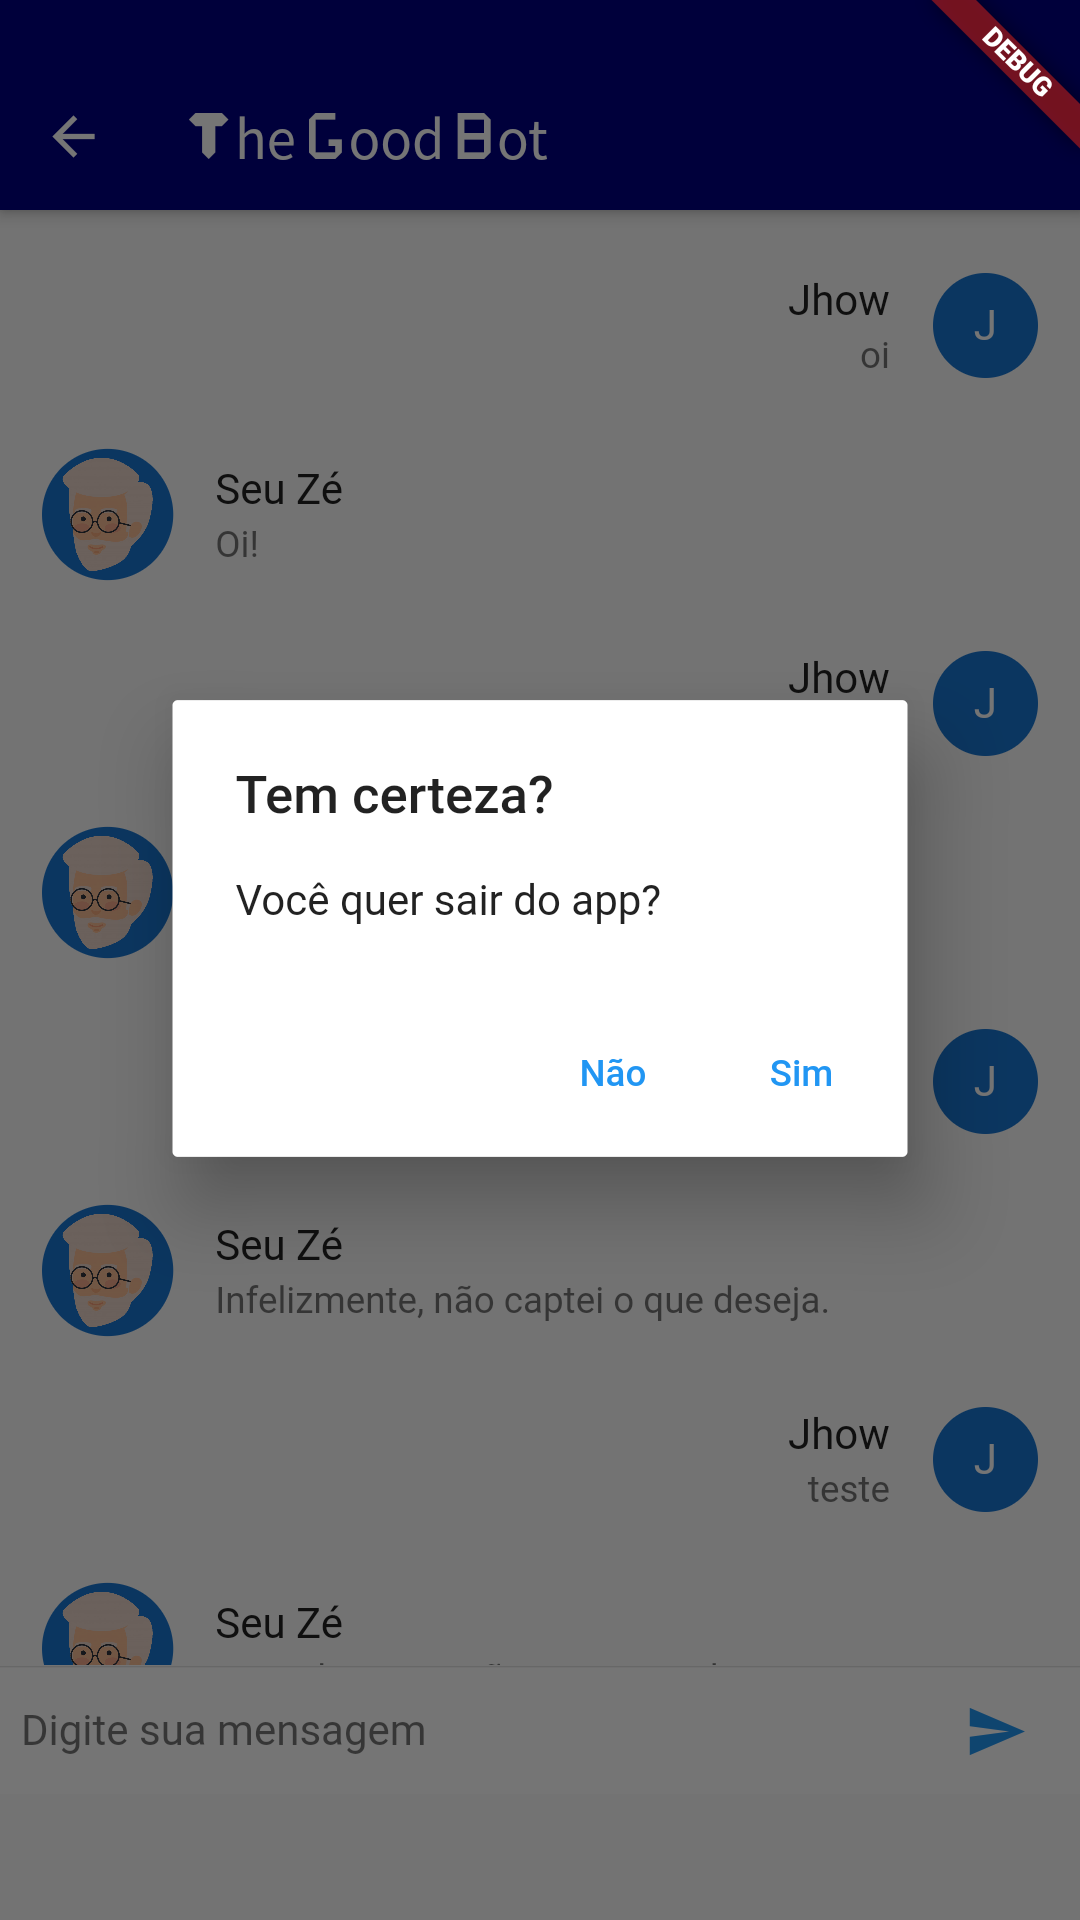
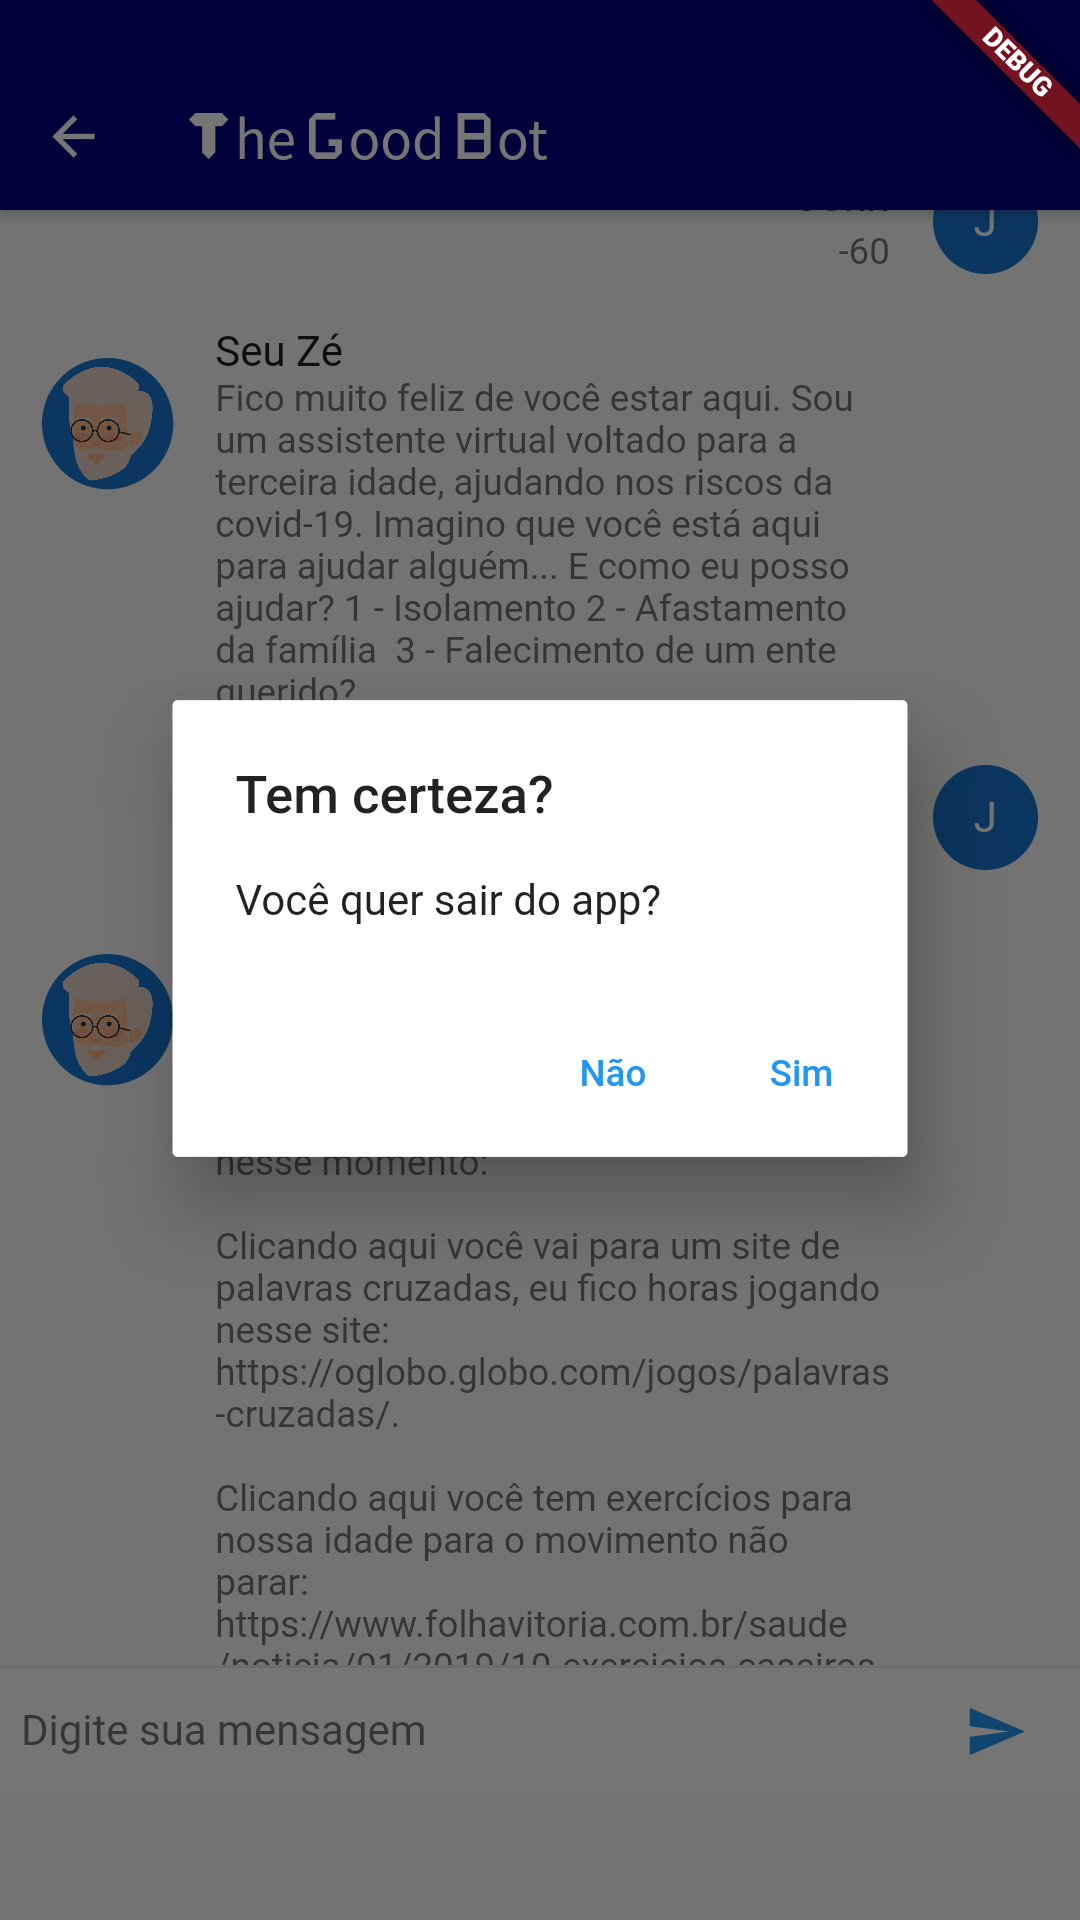
Update credentials.json e screenshots

diff --git a/lib/screens/chat_screen.dart b/lib/screens/chat_screen.dart
@@ -14,7 +14,7 @@ class _ChatScreenState extends State<ChatScreen> {
   final controllerText = new TextEditingController();
   final chatbotName = 'Seu Zé';
   var messageList = <Message>[];
-  var username = 'Usuário';
+  var username = '';
 
   @override
   Widget build(BuildContext context) {
@@ -46,11 +46,11 @@ class _ChatScreenState extends State<ChatScreen> {
             if (snapshot.connectionState == ConnectionState.done) {
               if (snapshot.data.length > 0) {                
                 return ListView.builder(
-                  reverse: false,
+                  reverse: true,
                   padding: EdgeInsets.all(8.0),
                   itemBuilder: (_, int index) =>
-                      showMessages(snapshot.data[index]),
-                  itemCount: snapshot.data.length,
+                      showMessages(messageList[index]),
+                  itemCount: messageList.length,
                 );
               } else {
                 return Center(
@@ -168,7 +168,7 @@ class _ChatScreenState extends State<ChatScreen> {
 
     // Comunicação com o Google Cloud (autenticação, envio e resposta da mensagem)
     AuthGoogle authGoogle =
-        await AuthGoogle(fileJson: "assets/teste.json").build();
+        await AuthGoogle(fileJson: "assets/credentials.json").build();
     Dialogflow dialogflow =
         Dialogflow(authGoogle: authGoogle, language: "pt-BR");
     AIResponse response = await dialogflow.detectIntent(query);
